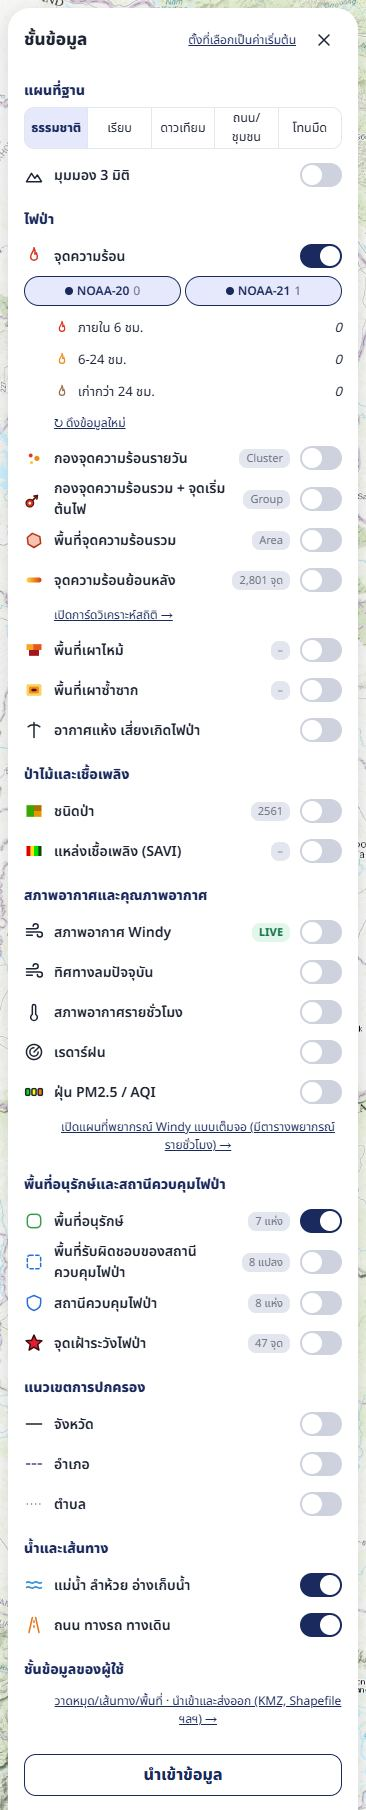
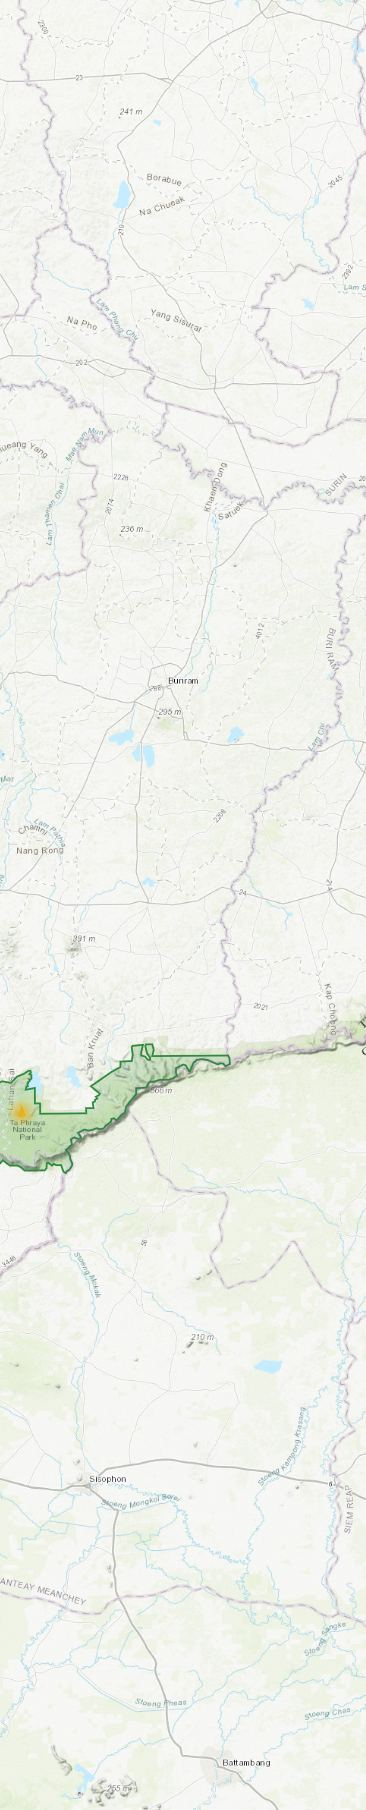
จุดความร้อน: อายุ 4 ระดับ (เพิ่ม 6–12 ชม. สีเหลือง 12–24 ชม.) · กล่องสัญลักษณ์อายุจุดลอยขวาล่างเหนือปุ่มควบคุม (ย้ายจากแผงชั้นข้อมูล) · แผงรายละเอียด: อายุเป็น วัน ชม. นาที · ซ่อนกล่องกำลังพลที่แนะนำ · คู่มือ + ภาพ 6 ภาพ

diff --git a/manual/index.html b/manual/index.html
@@ -251,7 +251,8 @@ mark{background:#ffe58a;border-radius:3px}
 <table>
 <tr><th>สัญลักษณ์</th><th>ความหมาย</th></tr>
 <tr><td><span class="sw dot" style="background:#e0301e"></span> แดง</td><td>ตรวจพบภายใน 6 ชม.</td></tr>
-<tr><td><span class="sw dot" style="background:#f08a1c"></span> ส้ม</td><td>6–24 ชม.</td></tr>
+<tr><td><span class="sw dot" style="background:#f08a1c"></span> ส้ม</td><td>6–12 ชม.</td></tr>
+<tr><td><span class="sw dot" style="background:#e8b020"></span> เหลือง</td><td>12–24 ชม.</td></tr>
 <tr><td><span class="sw dot" style="background:#9a6a4a"></span> น้ำตาล</td><td>เก่ากว่า 24 ชม. (แสดงถึง 48 ชม.)</td></tr>
 <tr><td><span class="sw dot" style="background:#f6a04d;border:2px solid #d9701e"></span> วงส้ม</td><td>จุดสะสมปีงบ (เมื่อเลือกแท็บ "จุดสะสมปีงบ" ในการ์ด)</td></tr>
 <tr><td><span class="sw dot" style="background:#ffd84a"></span> วงเหลือง</td><td>จุดความร้อนของวันที่ภาพดาวเทียมย้อนหลังที่เลือกอยู่</td></tr>
@@ -338,7 +339,7 @@ mark{background:#ffe58a;border-radius:3px}
 <h4><svg class="i" style="color:var(--fire)" viewBox="0 0 24 24"><path d="M12 2c1 4-4 6-4 11a4 4 0 008 0c0-2-1-3-1-5-1 1-1.500 2-2 2 1-3 0-6-1-8z"/></svg>จุดความร้อน <span class="tag">ค่าเริ่มต้น: เปิด</span></h4>
 <figure><img src="img/sw_hot.jpg" width="1280" height="760" alt="จุดความร้อนบนแผนที่และกล่องตั้งค่า" loading="lazy"><figcaption>จุดความร้อน 48 ชม. (ภาพนี้เปิดจุดความร้อนตัวอย่าง) พร้อมปุ่มดาวเทียมและจำนวนจุดตามอายุในแผงด้านขวา</figcaption></figure>
 <ul>
- <li>แสดงจุด VIIRS <b>48 ชม. ล่าสุด</b> เฉพาะในแนวเขต สีตามอายุ: <span class="sw dot" style="background:#e0301e"></span>ภายใน 6 ชม. <span class="sw dot" style="background:#f08a1c"></span>6–24 ชม. <span class="sw dot" style="background:#9a6a4a"></span>เก่ากว่า 24 ชม. · จุดใหม่มีวงเรืองแสงรอบจุด</li>
+ <li>แสดงจุด VIIRS <b>48 ชม. ล่าสุด</b> เฉพาะในแนวเขต สีตามอายุ: <span class="sw dot" style="background:#e0301e"></span>ภายใน 6 ชม. <span class="sw dot" style="background:#f08a1c"></span>6–12 ชม. <span class="sw dot" style="background:#e8b020"></span>12–24 ชม. <span class="sw dot" style="background:#9a6a4a"></span>เก่ากว่า 24 ชม. · จุดใหม่มีวงเรืองแสงรอบจุด · กล่อง <b>อายุจุดความร้อน</b> ขวาล่างเหนือปุ่มควบคุมบอกสัญลักษณ์และจำนวนจุดแต่ละช่วง (ซ่อนเมื่อปิดชั้นนี้)</li>
  <li><b>ปุ่มดาวเทียม</b> (NOAA-20 / NOAA-21) ใต้สวิตช์ = ชุดเดียวกับในการ์ด ตัวเลขบนปุ่ม = จุดสะสมปีงบของดวงนั้น · ตัวเลขขวาของแต่ละแถวอายุ = จำนวนจุดบนแผนที่ขณะนี้</li>
  <li><span class="btnl">↻ ดึงข้อมูลใหม่</span> ดึงทันที (ปกติดึงเองทุก 5 นาที)</li>
  <li><b>คลิกจุด</b> → <a href="#detail">แผงรายละเอียด</a> · ชี้เมาส์ → ป้ายเวลาและดาวเทียม</li>
@@ -562,7 +563,7 @@ mark{background:#ffe58a;border-radius:3px}
 <ul>
  <li>ปุ่มด้านบน: <span class="cb"><svg class="i" viewBox="0 0 24 24"><path d="M3 8h11a3 3 0 10-3-3M3 12h16a3 3 0 11-3 3M3 16h7"/></svg></span><b>ลม</b> (เปิดชั้น Windy แล้วซูมไปที่จุด) · <span class="cb"><svg class="i" viewBox="0 0 24 24"><path d="M9 9h10v10H9zM5 15V5h10"/></svg></span><b>คัดลอก</b>พิกัดและลิงก์ · <span class="cb"><svg class="i" viewBox="0 0 24 24"><path d="M5 12l14-7-5 14-2-6z"/></svg></span><b>นำทาง</b>ด้วย Google Maps · <span class="cb"><svg class="i" viewBox="0 0 24 24"><path d="M6 6l12 12M18 6L6 18"/></svg></span><b>ปิด</b></li>
  <li><b>ชื่อพื้นที่</b> ตำบล อำเภอ จังหวัด · พื้นที่อนุรักษ์ · สถานีฯ ที่รับผิดชอบ</li>
- <li><b>อายุ</b> (ชั่วโมงที่แล้ว) · <b>ความแรงไฟ (FRP, MW)</b> — API ไทยไม่ส่งค่า FRP จึงแสดง "–" สำหรับจุดจริง</li>
+ <li><b>อายุ</b> (ชม. นาที ที่แล้ว · เกิน 24 ชม. = วัน ชม. นาที) · <b>ความแรงไฟ (FRP, MW)</b> — API ไทยไม่ส่งค่า FRP จึงแสดง "–" สำหรับจุดจริง</li>
  <li><b>เวลาที่ตรวจพบ</b> = เวลาที่ดาวเทียมสแกน (เวลาไทย) · <b>ความเชื่อมั่น</b> (ต่ำ/ปกติ/สูง) · <b>พิกัด</b> ทศนิยม และ <b>UTM</b> · <b>ความสูง</b> และ<b>ความลาดชัน</b>พร้อมทิศลาด (จากแบบจำลองความสูง)</li>
 </ul>
 <h3>ประวัติในบริเวณนี้</h3>

diff --git a/CLAUDE.md b/CLAUDE.md
@@ -67,6 +67,7 @@
 - ตาราง/ส่งออก: `openTable`, `DT{rg:'24'|'48'|'fy'|'fyp',sat}` (ช่วง fya = ปีงบก่อนจาก API ไทย เพิ่มแล้วผู้ใช้ให้เอาออก 30 ต.ค. 69 — ปีงบก่อนในตารางใช้ข้อมูลกรมอุทยานฯ อย่างเดียว · ปุ่มดาวเทียมในตาราง `dtSats()` สร้างใหม่ใน dtRender: fyp = SNPP อย่างเดียว, fy = 3 ดวงเสมอ (มี SNPP ก่อนหยุดส่งข้อมูล), 24/48 = `satList()`), `dtRows` (**fyp = จุดกรมอุทยานฯ จาก HD ชุดเดียวกับการ์ด** `fuOK` + ดงใหญ่ตามปุ่ม → ปีงบ 2569 = 83/120, ไม่ขึ้นกับปุ่มดาวเทียมเมื่อ sat=all, ความเชื่อมั่น "-" — ผู้ใช้เลือก 29 ต.ค. 69 แทนจุด API ทุกดวง 432 จุดที่ทำให้รายงานมีตัวเลขสองชุด · 24/48/fy ยังเป็น API), `dtRows` เรียง**เก่าสุดก่อน** (ผู้ใช้ขอ 2 พ.ย. 69; ตารางแสดง 300 แถวแรก = เก่าสุด 300 จุด, CSV/รายงานเรียงตามนี้ด้วย), `dtCSV`, `buildReport`/`printReport` (div `#rpt` + `@media print` → ผู้ใช้เลือก "บันทึกเป็น PDF"), `mapSnap` ต้องมี `preserveDrawingBuffer:true` ใน Map · `mapSnap` = **มุมมองที่ผู้ใช้เห็นจริง** (ช่องว่างระหว่างแผงตาม `homePad`, มือถือใช้ขอบบนแผ่นล่าง → unproject 4 มุม → padding 0 + fitBounds, รอ idle แล้วคืนมุมมองเดิม) ภาพจึงตามการซูม/กรองของผู้ใช้แต่อยู่กลางภาพ ไม่เยื้องหลบแผง (ผู้ใช้ขอ 29 ต.ค. 69 — เคยทำเป็นกลุ่มป่ากลางภาพตายตัว ผู้ใช้ไม่เอา) ใช้ทั้งรายงานหลักและรายงานสถิติ · **สถานีฯ/จุดเฝ้าระวังเป็น DOM marker ไม่อยู่ใน canvas** (ผู้ใช้แจ้ง 30 ต.ค. 69 ว่าไม่ขึ้นในรายงาน) → `snapMarkers()` วาด SVG ของ marker ที่แสดงอยู่ + ป้ายชื่อ (ตามสถานะป้ายบนจอ z9/z11) ทับภาพตามตำแหน่ง getBoundingClientRect · `map.redraw()` ก่อนถ่ายให้ภาพตรงกับตำแหน่ง marker · ตรวจด้วย Chrome headless (CDP, สคริปต์ snap.js ใน temp) แล้ว — Browser pane ที่ถูกซ่อนไม่วาดเฟรมใหม่ ใช้ตรวจภาพแผนที่ไม่ได้
   - ตาราง/CSV/รายงานกรองตาม **ปุ่มดาวเทียม** (`DT.sat='all'` = ตาม `S.sats`) และ **พื้นที่ที่คลิกเลือกในรายการการ์ด** (`AF{t,full}`, `afMatch`, `afShow`, ป้าย `#p-af`/`#dt-af` มีปุ่มล้าง; คลิกซ้ำ = ยกเลิก) · สถานีฯ เทียบด้วย `stKey` ครอบทุกแปลงที่จุดอยู่ (`sts`) · พื้นที่อนุรักษ์เทียบด้วย `arKey` (ชื่อ GEO "เตรียมประกาศเป็น…" กับชื่อ Excel "… (เตรียมการ)")
 - `apply()` ถูกเรียกก่อนสไตล์โหลด: ใช้ `(map.getStyle()||{})` และ try รอบ setTerrain (เคย throw จนบรรทัดตั้ง setInterval รีเฟรชไม่ทำงาน)
+- **อายุจุดความร้อน 4 ระดับ** (ผู้ใช้ขอ 5 พ.ย. 69): `grp` r <6 / o 6–12 / y 12–24 / b >24 ชม. · สี `COL` #e0301e/#f08a1c/#e8b020/#9a6a4a (ไอคอน f-<g> + GL) · คำอธิบายสัญลักษณ์ย้ายจากแผงชั้นข้อมูลมาเป็นกล่องลอย `#hlg` (ไอคอนเปลวไฟทึบ + วงเรืองแสงแบบบนแผนที่, จำนวนจุด `#c-r/o/y/b`, ซ่อนเมื่อปิด S.hot) · `hlgPos`: เดสก์ท็อปชิดขวาเหนือแถว #ctl 10 px; แผงขวาเปิด (#right/#ulm/#dp) = ซ้ายของแผง (offsetLeft); มือถือเหนือแผ่นล่าง 8 px ซ้ายของคอลัมน์ปุ่ม; ชน #pbf/#wyb = ยกขึ้นเหนือแถบ · แผงรายละเอียดจุด: อายุ `#d-age` = วัน ชม. นาที (เกิน 24 ชม. นับเป็นวัน, ไม่ถึงชั่วโมง = นาที) + "ที่แล้ว" แถวเดียว ความแรงไฟตกแถวล่าง · **ไม่แสดงกล่องกำลังพลที่แนะนำ** `#lv-c` hidden (ผู้ใช้ขอ 5 พ.ย. 69; calc ยังคำนวณ crew)
 - จุดตัวอย่าง: `genDemo()` สุ่มในแนวเขตพื้นที่อนุรักษ์, สวิตช์ `#bDemo`/`S.demo` (**ปิดเป็นค่าเริ่มต้น** และบังคับ false หลังโหลด `fm-v1` — เว็บสาธารณะห้ามโชว์จุดปลอมเป็นตัวเลขหลัก), `buildHS`, `refreshHS`, `LIVE`, `HS`
 - **กองจุดความร้อน** (ผู้ใช้ขอ 2 พ.ย. 69 — Hotspot Cluster/Group/Area): 3 สวิตช์ในหมวดไฟป่า ใต้ปุ่ม ↻ ดึงข้อมูลใหม่ `S.hcl` กองรายวัน / `S.hgp` กองรวม + จุดเริ่มต้นไฟ / `S.har` พื้นที่จุดความร้อนรวม (ค่าเริ่มต้นปิด) + กล่อง `#hcbox` (ช่วงเวลา `S.hcp` 48/7/30 วัน/fy/fyp — fyp แสดงเมื่อ AD มีจุดในปีงบก่อน, สรุป, 5 กองรวมใหญ่สุดแตะแล้วซูม+ป๊อปอัป) · จุด = AD ทุกดวง + LIVE ที่ยังไม่อยู่ใน AD (`hcPts`, กันซ้ำ hKey) ตามปุ่มดาวเทียม (`satOn`) และดงใหญ่ (`xAD`/`xLive`) · `hcLink(P,gap)` union-find เชื่อมจุดห่าง ≤ `HCD` 1 กม. แบบลูกโซ่: กองรายวัน gap 0 (วันไทยเดียวกัน), กองรวม gap `HCG` 2 วัน · จุดเริ่มต้น = จุดรอบดาวเทียมแรกสุดของกองรวม (ดวงเดียวกัน ≤15 นาที หลายจุด = กึ่งกลาง) · เส้นลูกศร = จุดเริ่มต้น → กึ่งกลางจุดของแต่ละวันถัดไป · พื้นที่ = convex hull ของจุดรวมระยะเผาไหม้รอบจุดละ `HCR` 200 ม. (`hcHull`, ไร่) — **ไม่ใช่พื้นที่เผาไหม้จริง และ convex จึงเกินจริงเมื่อกองยาวโค้ง** · `hcCalc` แคช `HCC` ตามคีย์ช่วง/ข้อมูล/ปุ่ม · `setupHC` (เรียกใน setup ต่อจาก setup4) เลเยอร์ hca-f/hca-l/hcg-o (เส้นประ เมื่อปิดพื้นที่)/hcg-p/hcg-ar/hcc-c/hcc-n/hcg-i (ไอคอนวงเป้า `hc-ign`, กองจุดเดียวไอคอนเล็ก) · `LC()` เรียกจาก apply/refreshHS/load · คลิก hcg-i/hcc-c/hca-f → `hcPop` · ปีงบ 2569 (ไม่รวมดงใหญ่) = 365 จุด → กองรายวัน 118 / กองรวม 104 / 30,057 ไร่ · ตรวจด้วย Chrome headless แล้ว (เดสก์ท็อป + 390 px ไม่มี error)
   - **เงื่อนไขจัดกองกำหนดเองได้** (ผู้ใช้ขอ 2 พ.ย. 69): ช่อง `#hc-d` ห่างกันไม่เกิน (กม., 0.1–10) / `#hc-g` เกิดห่างกันไม่เกิน (วัน, 0–30) / `#hc-r` ระยะเผาไหม้รอบจุด (ม., 50–2,000; เดิมชื่อ "ระยะขยายรอบจุด" เปลี่ยนตามผู้ใช้ 4 พ.ย. 69) → `S.hcd/hcg/hcr` (ค่าเริ่มต้น 1/2/200, บันทึกค่าเริ่มต้นได้) · `hcCalc` อ่านผ่าน `hcV` (นอกช่วง = ค่าขอบ) ตั้ง HCD/HCG/HCR และใส่ในคีย์แคช · ช่องตารางของ `hcLink` กว้าง HCD/107000° · ปุ่ม `#hc-0` คืนค่าเริ่มต้น (ซ่อนเมื่อเป็นค่าเริ่มต้น) · ตัวอย่างปีงบ 2569: 0.5 กม./1 วัน/100 ม. = 140/131 กอง 11,531 ไร่ · 2 กม./5 วัน/375 ม. = 114/94 กอง 66,618 ไร่
